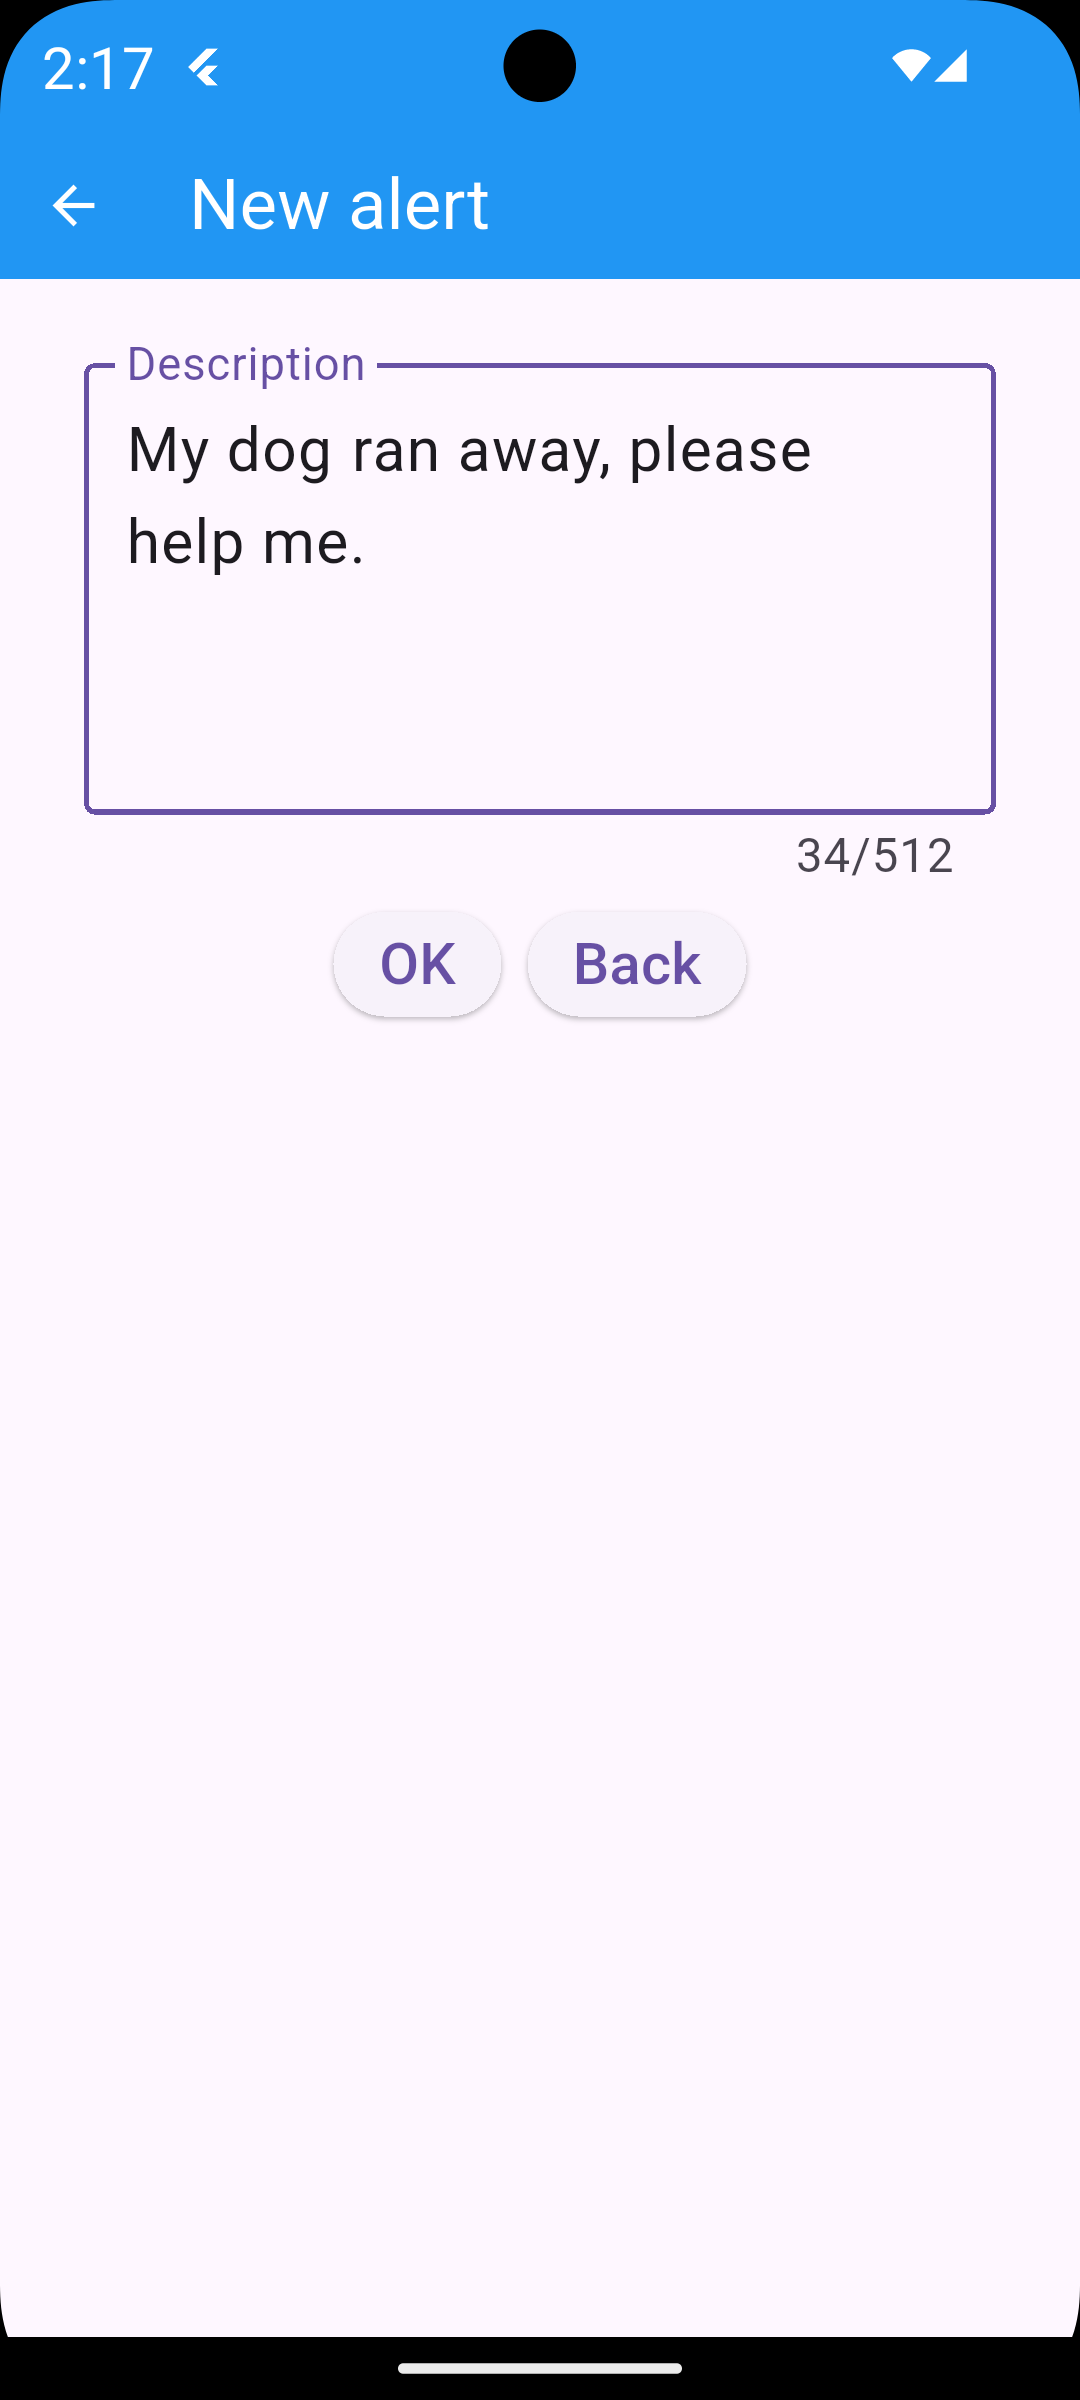
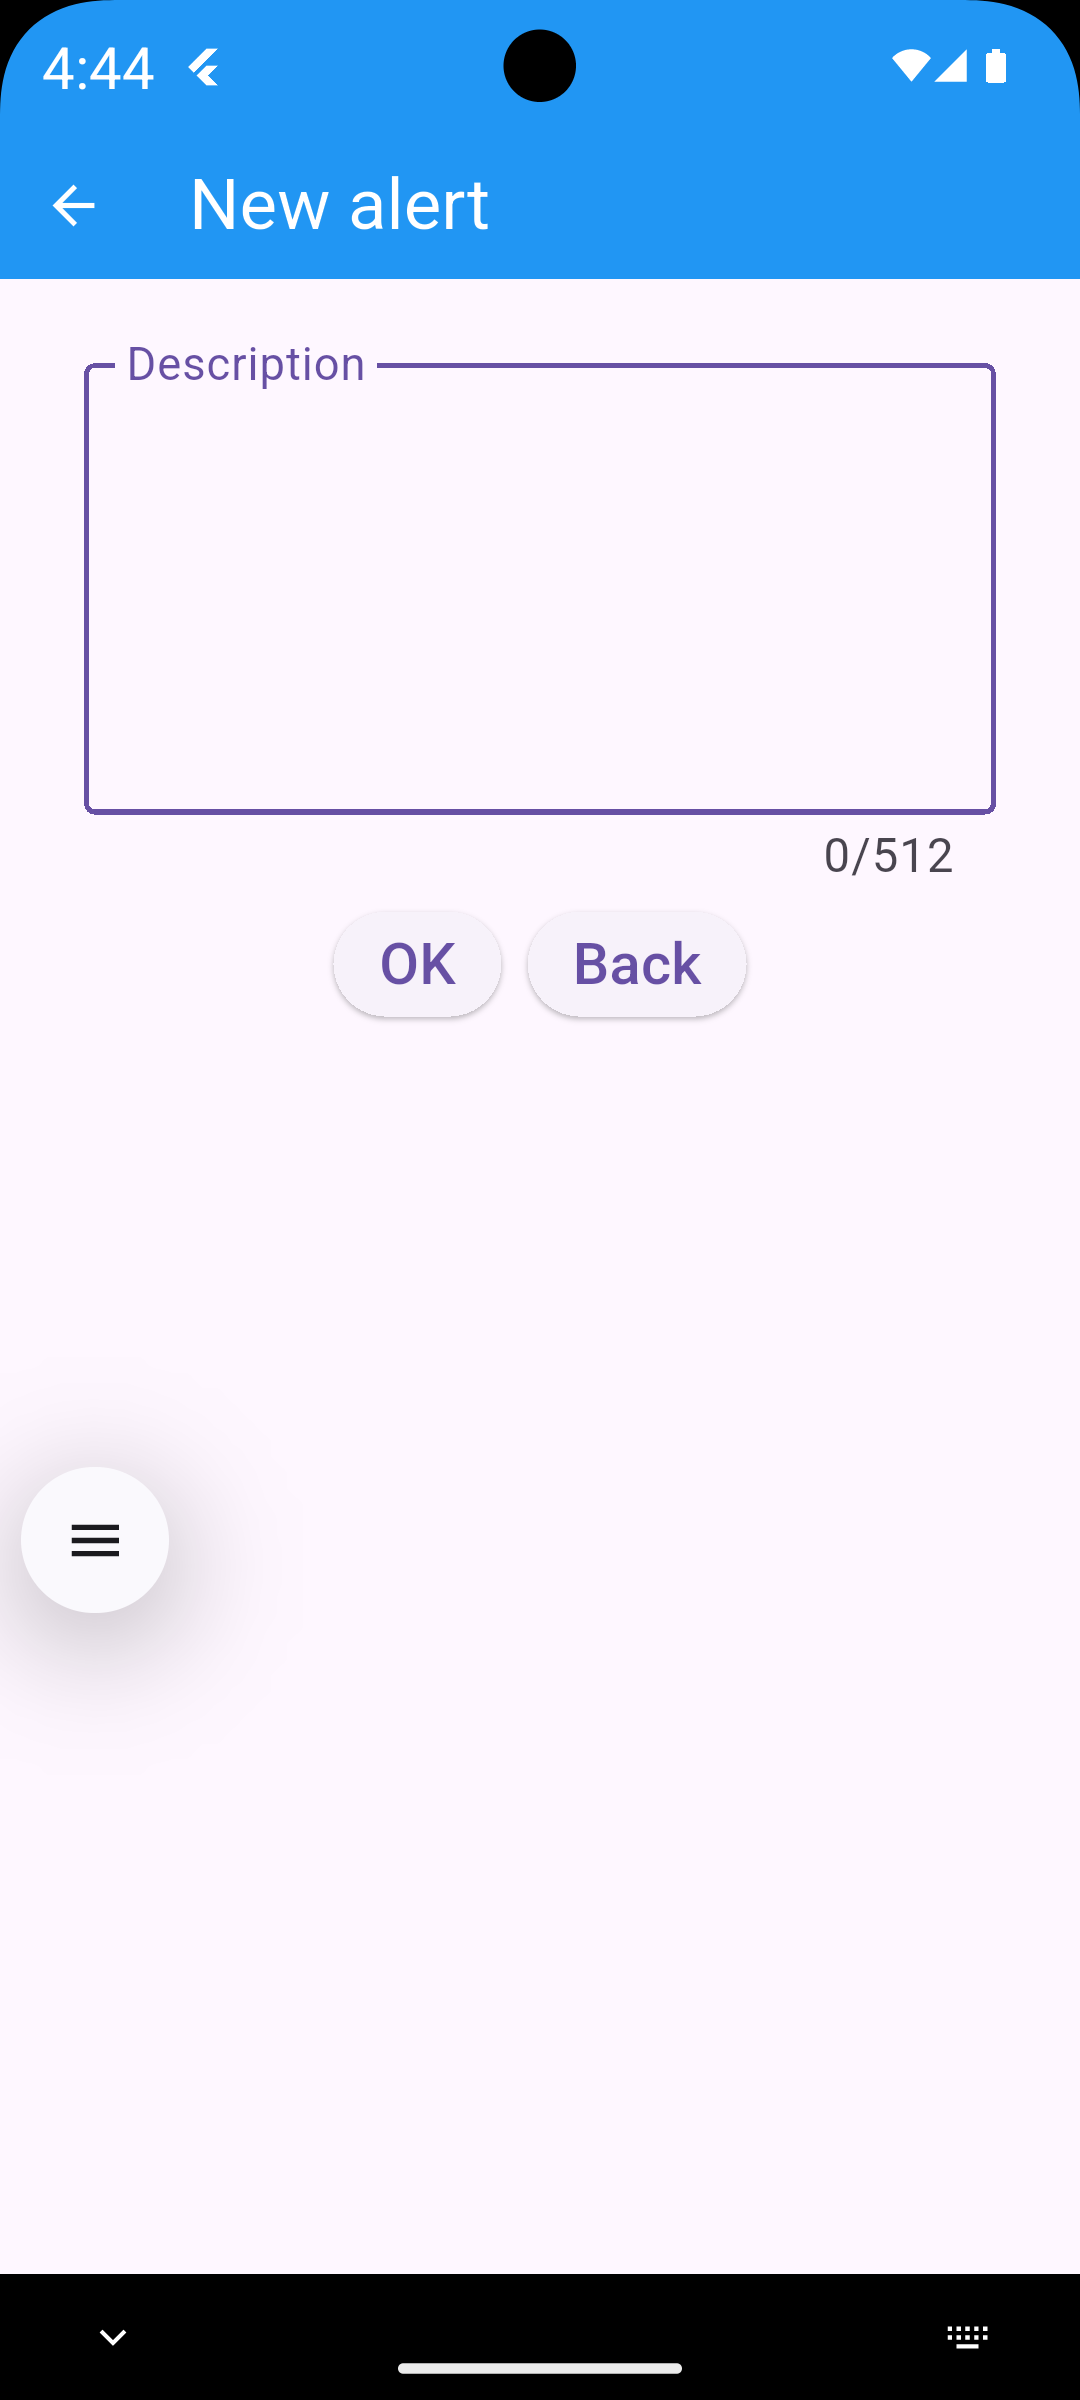
Usage tutorial updated: alert details, extend alert, chat.

diff --git a/USAGE.md b/USAGE.md
@@ -124,7 +124,8 @@ Click to "Battery" or "App battery usage", and then switch to "Unrestricted"
 
 Now you can go back by clicking on the "back" button in the top left corner, and then on the "back" button again until you return to the Quidalert app home page.
 
-NOTE: if you want to check the permissions granted, or if you forget to grant any of the permissions just discussed, you can fix this by going to the system settings for the Quidalert app (settings -> apps -> Quidalert) and manually changing the various permissions (notifications, authorizations, battery).
+NOTE: if you want to check the permissions granted, or if you forget to grant any of the permissions just discussed, don't worry. You can fix this by going to the system settings for the Quidalert app (settings -> apps -> Quidalert) and manually changing the various permissions (notifications, authorizations->locations, autorizations->physical activity, "battery").  
+Furthermore, if the system detects that permissions are missing, it presents the user with the same screens seen a moment ago, giving them the opportunity to set the correct permissions.
 
 ## Home page
 
@@ -154,7 +155,8 @@ Useful for verifying the correct functioning of the GPS location detection syste
 
 On the same page, we also have the device's latest GPS location sent to the server in the background.
 
-Interesting note: the GPS location detected by this test will be sent to the server, ensuring the server has a new, updated GPS location (especially useful for "chief" users, if their device remains stationary for a long time without detecting new background locations to send to the server). Remember that the server deletes users' GPS locations that are older than a week, and in order to be alerted, users and chiefs must have a recent known GPS location stored on the server.
+Interesting note: the GPS location detected by this test will be sent to the server, ensuring the server has a new, updated GPS location (especially useful for "chief" users, if their device remains stationary for a long time without detecting new background locations to send to the server). Remember that the server deletes users' GPS locations that are older than a week, and in order to be alerted, users and chiefs must have a recent known GPS location stored on the server.  
+Simply put, the test button can be used to perform a GPS check, or it can be used to refresh the user's GPS location on the server.
 
 At the bottom of the page, there's also a list of locations detected by the device in the background, but not yet sent to the server (perhaps due to internet issues). The device will automatically send them as soon as internet is available again, but you can force the upload manually. The server will only store the most recent location.
 
@@ -170,10 +172,106 @@ NOTE: if an alert with a similar description is sent within an hour from the las
 
 NOTE FOR CHIEFS: Chief users can send regular alerts like other users, but they can also send "managed" alerts (the GPS location is customized) and global alerts (general alerts visible to all users within the server's scope). They can also create "empty" alerts (without alerted users), ready to be expanded later with a large radius. If the user is a "chief", a special selector will be shown to choose the alert type.
 
+<p align="center">
+  <img src="client/screenshots/new_alert_by_chief.png" alt="New alert by chief screenshot" width="256">
+</p>
+
+A NOTE ABOUT THE NUMBER OF ALERTED USERS
+
+For efficiency reasons, the server propagates the alert to a maximum of 1000 nearby users. This applies to both the creation of an alert and the expansion function.
+
+The system allows the rescue leader (chief) to perform 3 expansions, so, if we want to do a calculation: the maximum number of alerted users, for a given alert, is 4000 (1000 during creation, and then 1000 for each of the three expansions), 4001 if we include the chief in the calculation.
+
 ## Alert details
 
-To be continued... Under construction...
+### Alert details from the perspective of the sender
 
-## For admins
+This is the details page for an alert. We can see the GPS location of the user who issued the alert, their address, and by clicking on the map, we can view the GPS location in the device's built-in Maps app.
 
-Under construction...
+<p align="center">
+  <img src="client/screenshots/alert_details_by_sender.png" alt="Alert details perspective of the sender screenshot" width="256">
+</p>
+
+The data regarding the accuracy of the GPS position is interesting, so nearby users and the chief of the rescue team can get an idea of the accuracy of the displayed GPS position, and perhaps the chief can ask the sender of the alert for clarification via message directly in the alert chat.
+
+There's also other useful data (name of the alert sender, name of the alerted leader, and number of alerted users).
+
+Then we see that there's also a chat feature, thanks to which the sender and the alert leader can write messages, and nearby alerted users can read them.
+
+### Alert details from the perspective of nearby users
+
+Nearby users see a page almost identical to this one. They have the option to vote on the alert (confirm, deny, or remain neutral).
+
+<p align="center">
+  <img src="client/screenshots/alert_details_by_nearby_users.png" alt="Alert details perspective of nearby users screenshot" width="256">
+</p>
+
+Votes must be carefully considered, because when the chief closes the alert, they can also confirm or deny it. If the alert is confirmed by the chief, the system will reward all users who confirmed it (including the alert sender) and penalize those who denied it. Conversely, if the alert is denied by the chief, the system will reward users who denied it and penalize those who confirmed it (also penalizing the alert sender).
+
+The penalty consists of a reduction in the reliability score. Users with a low score will be able to issue alerts with a more limited radius, and if the score drops to zero, or negative, they will not be able to issue alerts.
+
+After a few months, the reliability score slowly starts to increase again.
+
+### Alert details from the perspective of the chief
+
+Obviously, the manager, having more permissions, can see more details about an alert. 
+
+<p align="center">
+  <img src="client/screenshots/alert_details_by_chief.png" alt="Alert details perspective of the chief screenshot" width="256">
+</p>
+
+He can see the address and phone number of the alert sender. the list of alerted users sorted by distance 
+
+<p align="center">
+  <img src="client/screenshots/alerted_users.png" alt="Alerted users screenshot" width="256">
+</p>
+
+...and the list of alerted specialists (doctors, firefighters, military personnel, police officers, volunteers, etc.). He can also see the contact information (address, phone number) for these individuals.
+
+<p align="center">
+  <img src="client/screenshots/alerted_specialists.png" alt="Alerted specialists screenshot" width="256">
+</p>
+
+<p align="center">
+  <img src="client/screenshots/alerted_specialists_medics.png" alt="Alerted specialists (medics) screenshot" width="256">
+</p>
+
+The manager can vote on the alert like a normal user, but the most important action is closing the alert. This can be a neutral, affirmative, denial, or punitive closure. A neutral closure does not affect the reliability scores of the voting users or the alert sender. Other closures do, as we saw earlier. A punitive closure is like a denial closure, but is much more punitive (the alert description is banned as it is considered seriously false, and the sender's reliability score is directly reduced to zero, while the reliability scores of alerted users who voted in favor of the fake alert are significantly reduced).
+
+<p align="center">
+  <img src="client/screenshots/alert_closing.png" alt="Alerted details (closing) screenshot" width="256">
+</p>
+
+NOTE: the alert close buttons have a safety checkbox, to prevent you from accidentally clicking and closing the alert unintentionally.
+
+## Alert extension
+
+The manager can expand the alert beyond the kilometer (for example 30 kilometers or even more), warning normal users, or focusing on a certain role (for example if you want to warn all "medics" within a 30 kilometer radius).
+
+<p align="center">
+  <img src="client/screenshots/extend_alert.png" alt="Extend alert screenshot" width="256">
+</p>
+
+An alert can be expanded multiple times (for example, I could extend the alert to all medics within a 30-kilometer radius, and after that repeat the same operation, extending the alert to all police officers within a 100-kilometer radius).
+
+The maximum number of possible expansions is 3.
+
+## Chat
+
+The chat is very useful: if the alert sender forgets to write something in the alert description, they can write it later in the chat. The rescue manager can respond to reassure the sender and the alerted users and give instructions that are visible to all of them.
+
+<p align="center">
+  <img src="client/screenshots/chat.png" alt="Chat screenshot" width="256">
+</p>
+
+## Recent alerts
+
+On the "recents" page, you can see general alerts, as these are by nature visible to everyone, and then **only alerts in which the user is involved** in some way (as alerted "chief" manager, as an alerted nearby user, or as an alert sender).
+
+<p align="center">
+  <img src="client/screenshots/recents.png" alt="Recent alerts screenshot" width="256">
+</p>
+
+## Panel dedicated to admins and officers
+
+Tutorial under construction...
